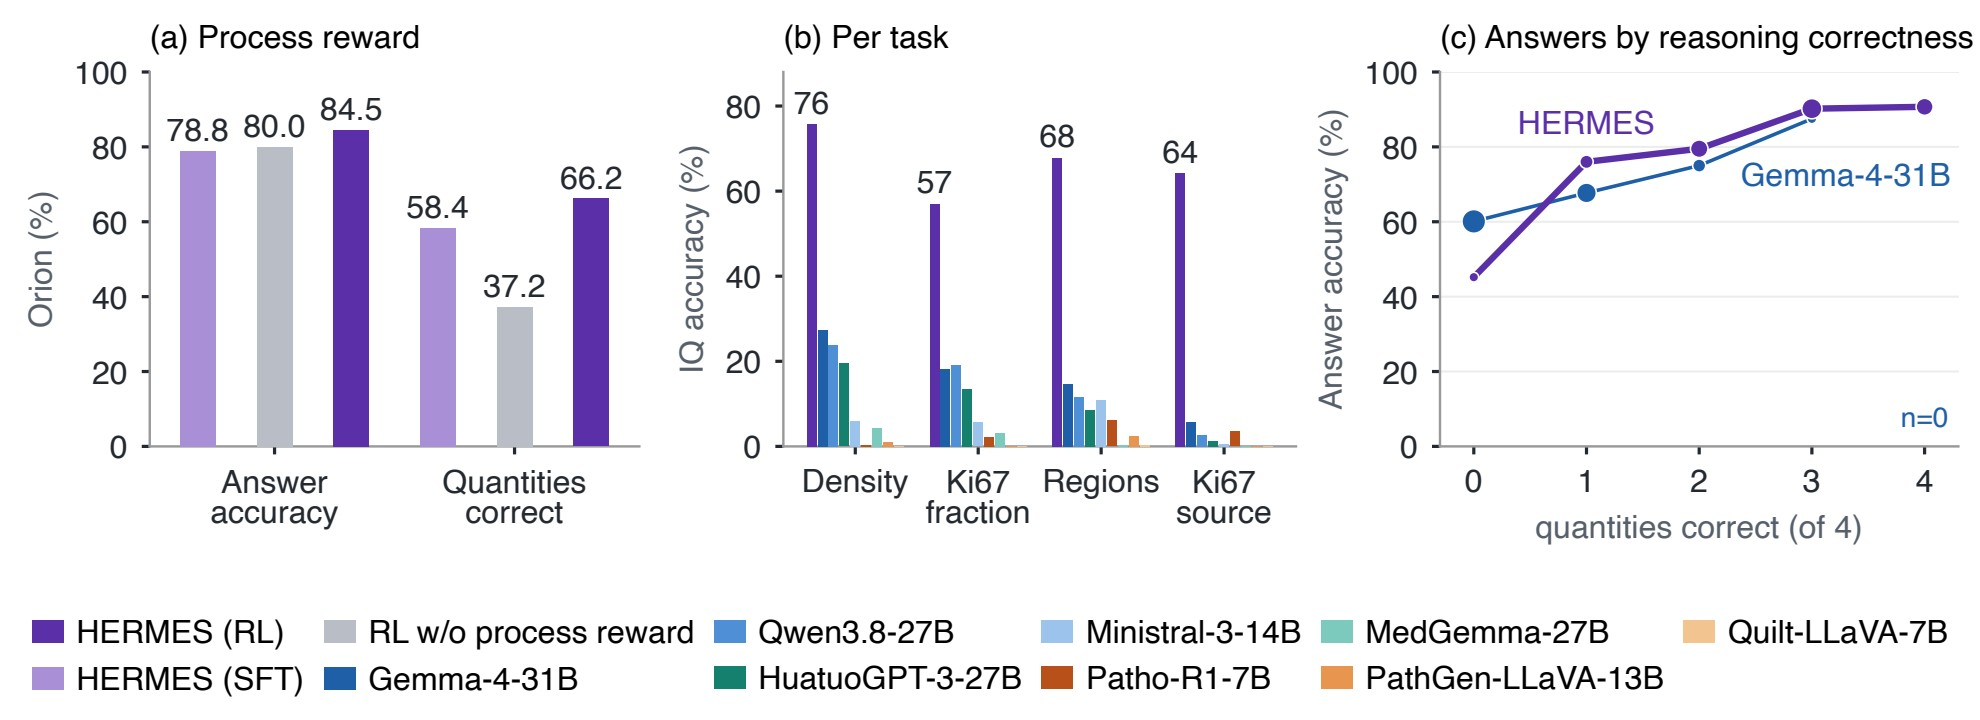
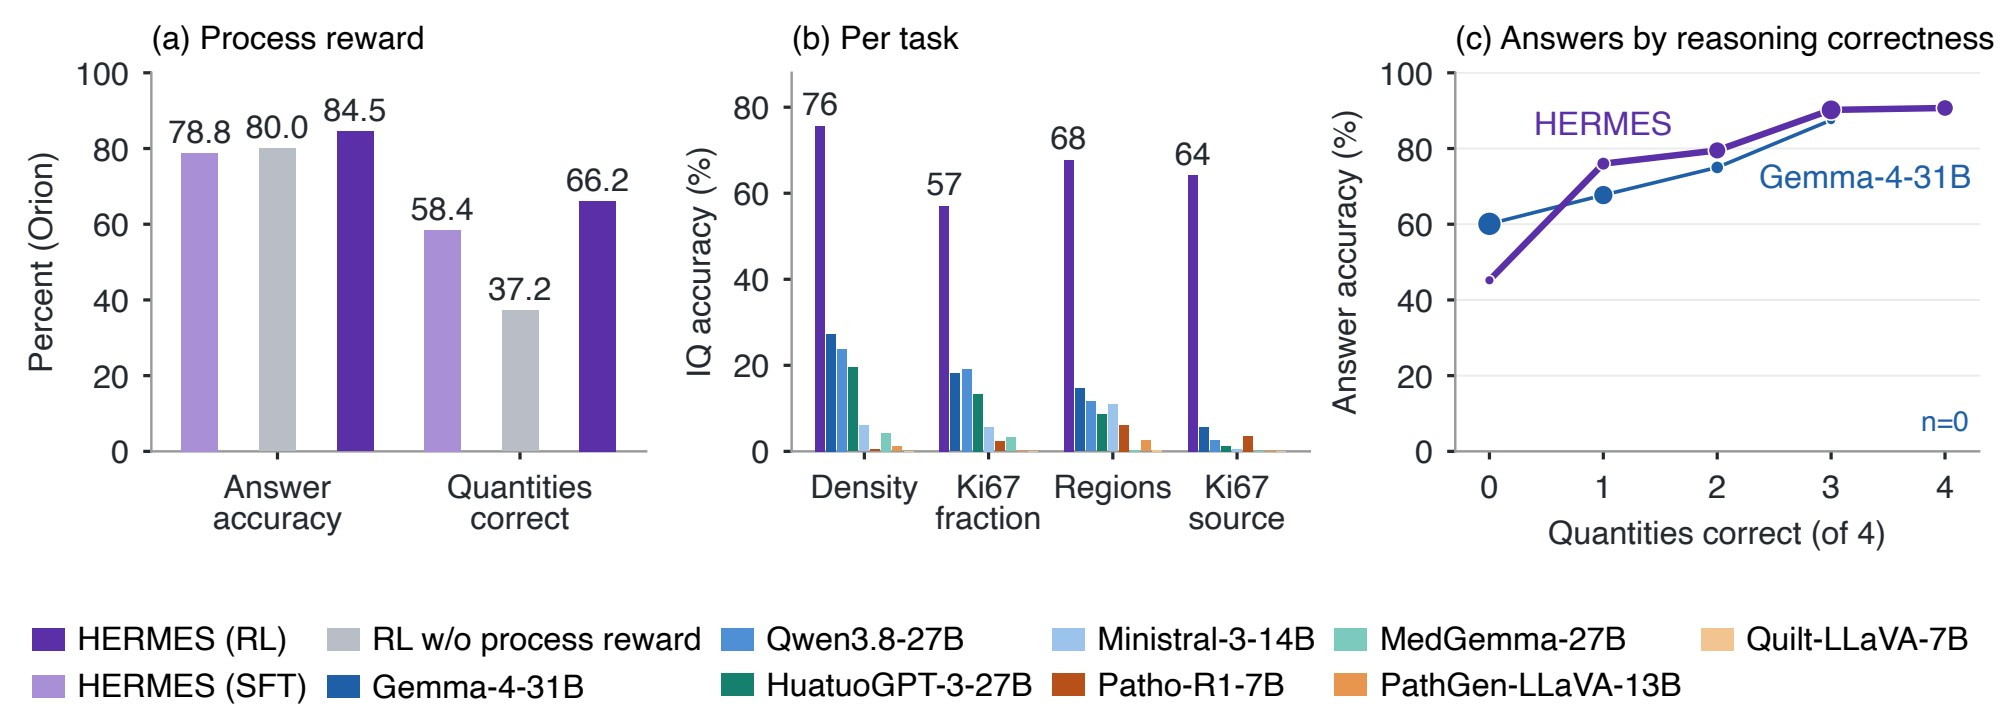
Sync with the paper: abstract, pipeline figure, Fig. 4, reasoning-check text, validation-set note, five contributions

diff --git a/index.html b/index.html
@@ -122,28 +122,28 @@ footer a{color:var(--muted)}
 
 <section class="abstract"><div class="narrow">
   <h2>Abstract</h2>
-  <p>Readouts of the tumor immune microenvironment (TIME), such as CD8<sup>+</sup> T-cell density, intra-epithelial infiltration and the Ki67 index, combine tissue architecture from H&amp;E with cell phenotypes from multiplex immunofluorescence (mIF). Multimodal large language models (MLLMs) could automate these readouts with an explanation, but two gaps remain. First, pathology MLLMs, including R1-style ones trained with reinforcement learning, have not learned to read mIF together with H&amp;E. Second, R1-style rewards check only the final answer, so the reasoning is neither required to follow clinical guidelines nor verified.</p>
+  <p>Readouts of the tumor immune microenvironment (TIME), such as CD8<sup>+</sup> T-cell density, intra-epithelial infiltration and the Ki67 index, combine tissue architecture from H&amp;E with cell phenotypes from multiplex immunofluorescence (mIF). Multimodal large language models (MLLMs) could automate these readouts with an explanation, but two gaps remain. Pathology MLLMs read H&amp;E alone, while these readouts need the cell phenotypes that mIF measures. And their reasoning has no step-level truth to be checked against, so R1-style reinforcement learning rewards only the final answer and leaves the reasoning unverified.</p>
   <p>Same-section H&amp;E and mIF provide what both gaps lack: mIF measures every cell without manual annotation, which gives cell-level ground truth for each step that clinical guidelines prescribe, from delineating a tissue compartment to counting and normalising the marker-positive cells within it. We therefore present <b>HERMES</b> (<b>H</b>&amp;<b>E</b>–mIF <b>R</b>easoning with <b>M</b>ultimodal <b>E</b>vidence <b>S</b>upervision), an R1-style MLLM that reasons jointly over paired H&amp;E and mIF in guideline steps, each naming the modality it reads, and is trained with a process reward that checks every stated quantity against this truth.</p>
-  <p>Across four field-level TIME tasks in colorectal cancer, the 4B-parameter HERMES reaches an average accuracy of 84.5%, compared with 74.7% for the strongest of twelve proprietary, general, medical and pathology MLLMs, and a higher share of its intermediate quantities is correct than for the strongest open-weight baseline. Without retraining, it keeps the highest average accuracy on an external cohort imaged with CODEX (76.4% vs. 67.3%) and on head and neck cancer, a cancer type absent from training (76.7% vs. 72.5%).</p>
+  <p>Across four field-level TIME tasks in colorectal cancer, the 4B-parameter HERMES reaches an average accuracy of 84.5%, compared with 74.7% for the strongest of twelve proprietary, general, medical and pathology MLLMs, and a higher share of its intermediate quantities is correct than for the strongest open-weight baseline. The process reward is what makes the stated reasoning correct: without it, reinforcement learning barely improves on supervised fine-tuning (80.0% vs. 78.8%) and fewer stated quantities are correct, and the answers follow from the stated quantities, changing as implied in all 885 test questions when a decisive quantity is edited. Without retraining, it keeps the highest average accuracy on an external cohort imaged with CODEX (76.4% vs. 67.3%) and on head and neck cancer, a cancer type absent from training (76.7% vs. 72.5%).</p>
 </div></section>
 
 <section><div class="narrow">
   <h2>Why H&amp;E and mIF, and why the reasoning</h2>
-  <p>Clinical TIME readouts are counts of specific cells in specific compartments: the Immunoscore uses CD3<sup>+</sup>/CD8<sup>+</sup> densities in the tumor and at its margin, TILs are scored as a share of stroma, and the Ki67 index counts only <em>tumor</em> nuclei. Location matters as much as number: the same CD8<sup>+</sup> count means an inflamed tumor when the cells enter the epithelium, and an immune-excluded one when they stay in the stroma.</p>
+  <p>Clinical TIME readouts quantify specific cells in specific compartments: the Immunoscore uses CD3<sup>+</sup>/CD8<sup>+</sup> densities in the tumor and at its margin, TILs are scored as a share of stroma, and the Ki67 index counts only <em>tumor</em> nuclei. Location matters as much as number: the same CD8<sup>+</sup> count means an inflamed tumor when the cells enter the epithelium, and an immune-excluded one when they stay in the stroma.</p>
   <div class="cards">
     <div class="card"><h4>H&amp;E alone is not enough</h4><p>It shows where epithelium ends and stroma begins, but cannot tell a CD8<sup>+</sup> T cell from other lymphocytes.</p></div>
     <div class="card"><h4>mIF alone is not enough</h4><p>It gives the protein identity of each cell, but without an epithelial marker cannot tell a tumor nucleus from a stromal one.</p></div>
     <div class="card"><h4>MLLMs do not read mIF</h4><p>General, medical and pathology MLLMs are trained on H&amp;E or natural images, never on mIF together with H&amp;E.</p></div>
-    <div class="card"><h4>R1-style rewards ignore the reasoning</h4><p>Only the final answer is rewarded. The strongest open-weight baseline states about a third of the needed quantities, and 16% of them are correct.</p></div>
+    <div class="card"><h4>R1-style rewards ignore the reasoning</h4><p>Only the final answer is rewarded. The strongest open-weight baseline states about a third of the needed quantities, and only 16% of the required quantities are correct.</p></div>
   </div>
-  <div class="take"><b>Key idea.</b> On a same-section H&amp;E + mIF image, every cell is measured in both modalities, so cell tables and a Pan-CK epithelial mask give the exact value of every quantity a pathologist would state on the way to an answer. That turns the reasoning itself into a target that can be rewarded and verified.</div>
+  <div class="take"><b>Key idea.</b> On a same-section H&amp;E + mIF image, every cell is measured in both modalities, so cell tables and a Pan-CK epithelial mask give a measured value for every quantity a pathologist would state on the way to an answer. That turns the reasoning itself into a target that can be rewarded and verified.</div>
 </div></section>
 
 <section><div class="wrap">
   <h2>How HERMES works</h2>
   <figure>
     <img src="static/pipeline.jpg" alt="HERMES overview: paired H&amp;E and mIF field, guideline-structured reasoning, SFT then GRPO with format, answer and process rewards, and four evaluation tasks">
-    <figcaption><b>Overview.</b> (1) A same-section H&amp;E and mIF field. (2) Guideline-structured reasoning: compartment and nuclei on H&amp;E, marker-positive cells on mIF, then the readout. (3) Training traces are built from the cell-level ground truth (cell table, Pan-CK mask), which the model never sees. Stage 1: SFT of Qwen3.5-4B with LoRA; stage 2: GRPO with format, answer and process rewards.</figcaption>
+    <figcaption><b>Overview.</b> (1) A same-section H&amp;E and mIF field. (2) Guideline-structured reasoning: compartment and nuclei on H&amp;E, marker-positive cells on mIF, then the readout. (3) Training traces are built from the cell-level ground truth (cell table, epithelial Pan-CK mask), which the model never sees. Stage 1: SFT of Qwen3.5-4B with LoRA; stage 2: GRPO with format, answer and process rewards, the last checking each stated quantity against the truth (✓: within tolerance). Bottom: four tasks, evaluated on Orion and two external cohorts against proprietary and open-weight MLLMs.</figcaption>
   </figure>
   <div class="narrow">
   <ol class="steps">
@@ -205,11 +205,11 @@ footer a{color:var(--muted)}
 
   <div class="narrow">
   <h3>Is the reasoning right?</h3>
-  <p>For open-weight models, every intermediate quantity is checked against the cell-level truth (unstated counts as wrong). General and medical MLLMs state only 19–36% of the quantities a task needs, and pathology MLLMs under 10%. HERMES states every quantity and 66.2% are correct.</p>
+  <p>For open-weight models, every intermediate quantity is checked against the cell-level truth (unstated counts as wrong). General and medical MLLMs state only 19–36% of the quantities that the scoring rules require, and pathology MLLMs under 10%; the strongest open-weight baseline (Gemma-4-31B) gets only 16.4% of them right. HERMES states every quantity and 66.2% are correct, with the largest gap on Ki67 source (64% vs. 6%).</p>
   </div>
   <figure>
     <img src="static/iq_bars.jpg" alt="Three panels: process-reward ablation, per-task share of correct quantities, and answer accuracy against number of correct quantities">
-    <figcaption><b>Intermediate quantities checked against cell-level truth.</b> (a) Without the process reward, GRPO raises accuracy only from 78.8% to 80.0%, and the correct share falls to 37.2%. (b) Correct share per task and model. (c) Accuracy of HERMES rises from 45.2% with no correct quantity to 90.7% with all four correct.</figcaption>
+    <figcaption><b>Intermediate quantities checked against cell-level truth.</b> (a) Without the process reward, GRPO raises accuracy only from 78.8% to 80.0%, and the correct share falls to 37.2%; on the two Ki67 tasks, 96–99% of its outputs leave the guideline steps and count all nuclei on the mIF Hoechst channel instead of the epithelial nuclei on H&amp;E. (b) Correct share per task and model. (c) Accuracy of HERMES rises from 45.2% with no correct quantity to 90.7% with all four correct.</figcaption>
   </figure>
   <div class="narrow">
   <div class="take"><b>Takeaway.</b> The process reward is what makes RL help: it lifts accuracy to 84.5% and keeps the stated quantities correct, and correct reasoning goes with correct answers.</div>
@@ -224,7 +224,7 @@ footer a{color:var(--muted)}
   <div class="two narrow" style="margin-top:18px">
     <div>
       <h3 style="margin-top:0">HERMES uses both images</h3>
-      <p>Masking either image while keeping the other intact lowers accuracy on every task: the average falls from 86.7% to 76.4% without H&amp;E and to 50.0% without mIF. H&amp;E supplies the compartment and the denominator of the Ki67 index; mIF supplies the identity of each cell.</p>
+      <p>Masking either image while keeping the other intact lowers accuracy on every task (validation set): the average falls from 86.7% to 76.4% without H&amp;E and to 50.0% without mIF. H&amp;E supplies the compartment and the denominator of the Ki67 index; mIF supplies the identity of each cell.</p>
     </div>
     <figure><img src="static/modality_masking_acc.jpg" alt="Accuracy per task when 50% or 100% of the H&amp;E or mIF image is masked"><figcaption>Masking 50% or 100% of H&amp;E (a) or mIF (b).</figcaption></figure>
   </div>
@@ -233,10 +233,11 @@ footer a{color:var(--muted)}
 <section><div class="narrow">
   <h2>Contributions</h2>
   <ol class="steps">
-    <li>The first reasoning benchmark on same-section H&amp;E and mIF, with four tasks tied to clinical readouts, cell-level truth for every intermediate quantity, and external cohorts from a different imaging platform and a different cancer type.</li>
-    <li>HERMES, an MLLM trained with reinforcement learning for TIME interpretation from paired H&amp;E and mIF, which reasons in guideline-structured steps and is trained with a process reward that verifies every stated quantity.</li>
-    <li>Higher answer accuracy and clinical-grade agreement than twelve MLLMs, and the highest accuracy without retraining on a CODEX cohort and on head and neck cancer, with about 190 output tokens per answer.</li>
-    <li>A multi-level verification of the reasoning: stated quantities against cell-level truth, accuracy against their correctness, and edits to the text and to the image.</li>
+    <li><b>Guideline-structured reasoning for TIME readouts.</b> Three scoring rules of clinical practice (the compartment area as the denominator, CD8<sup>+</sup> cells as a density, and the Ki67 index over tumor nuclei only) become a fixed sequence of steps, each reading one modality and stating one quantity, so that a pathologist can audit every step and same-section H&amp;E and mIF give every step a measurable truth.</li>
+    <li><b>HERMES</b>, an MLLM trained with reinforcement learning for TIME interpretation from paired H&amp;E and mIF, which learns this structure from traces filled with the cell-level truth and is trained with a process reward that verifies every stated quantity.</li>
+    <li><b>The first reasoning benchmark on same-section H&amp;E and mIF</b>, with four tasks tied to clinical readouts, cell-level truth for every intermediate quantity, and external cohorts from a different imaging platform and a different cancer type.</li>
+    <li><b>Experiments</b> showing higher answer accuracy and clinical-grade agreement than twelve MLLMs and the highest accuracy without retraining on a CODEX cohort (76.4% vs. 67.3%) and on head and neck cancer, with about 190 output tokens against 1.2k–6.5k for the strongest open-weight baselines.</li>
+    <li><b>A multi-level verification of the reasoning</b>: each stated quantity is checked against the cell-level truth, answer accuracy rises with their correctness, editing a stated quantity changes the answer as implied, and removing CD8<sup>+</sup> cells from the mIF image lowers the stated count.</li>
   </ol>
 </div></section>
 
